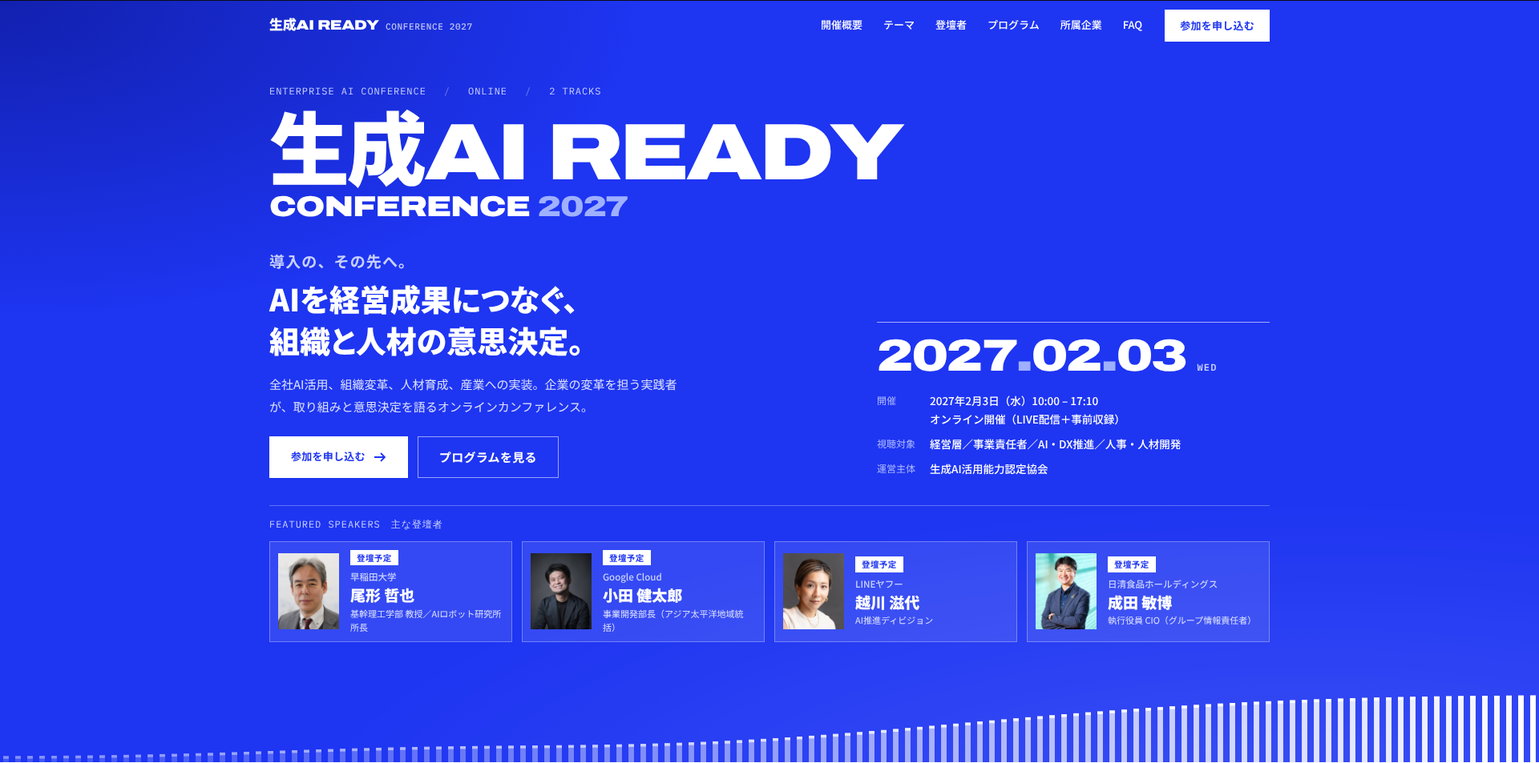
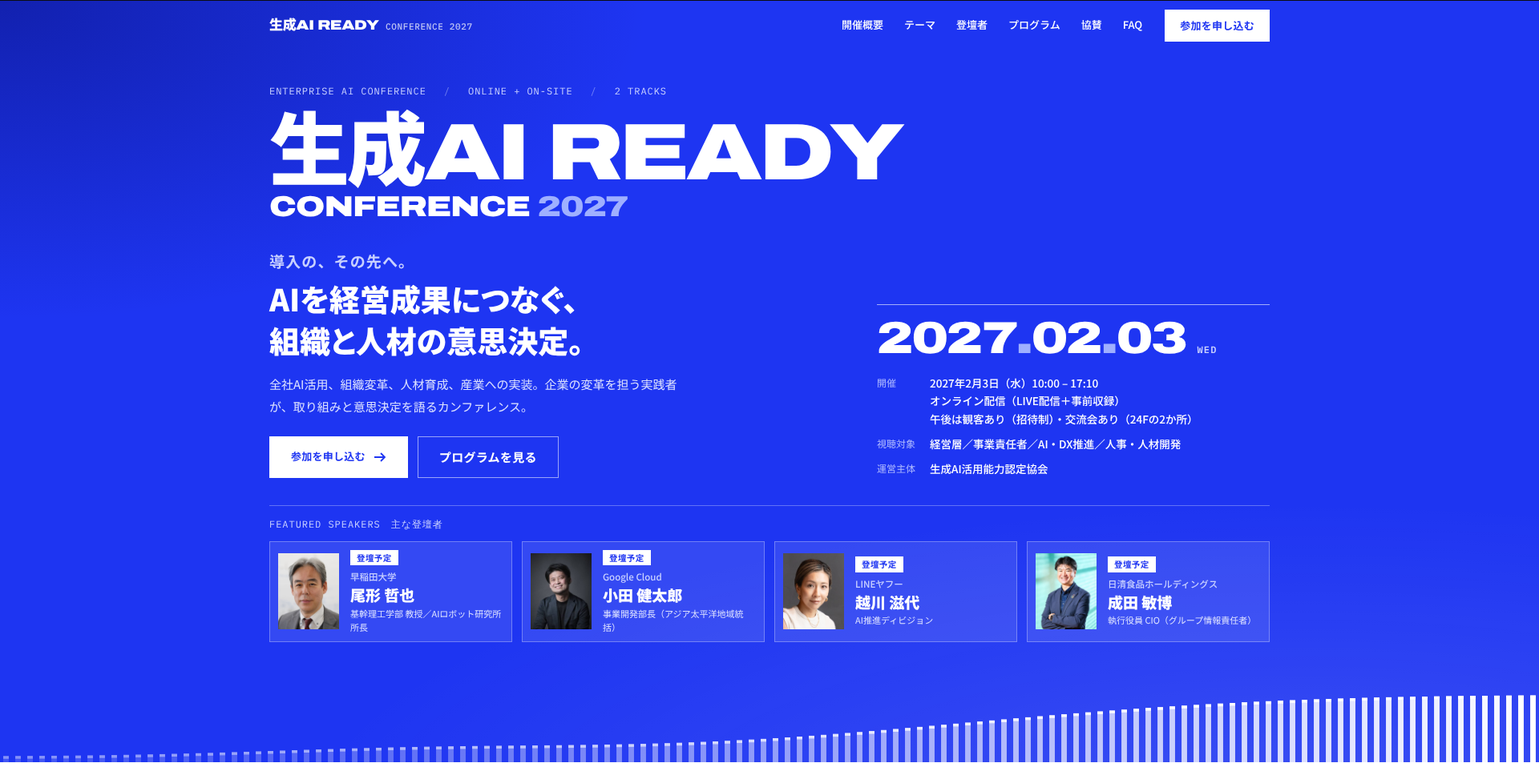
Add invited audience and networking event (afternoon only, 24F x2); remove expected scale and outreach rows
Claude-Session: https://claude.ai/code/session_018Zhg1cicYdCBMFJD6jvKpq

diff --git a/ai-ready-conference/dist/artifact.html b/ai-ready-conference/dist/artifact.html
@@ -1,7 +1,7 @@
 <title>生成AI Ready Conference 2027</title>
 <meta name="claude:viewport-fit-sides" content="cover">
 <meta name="robots" content="noindex,nofollow">
-<meta name="description" content="企業向け生成AIカンファレンス 生成AI Ready Conference 2027。運営主体：生成AI活用能力認定協会。2027年2月3日（水）オンライン開催。">
+<meta name="description" content="企業向け生成AIカンファレンス 生成AI Ready Conference 2027。運営主体：生成AI活用能力認定協会。2027年2月3日（水）オンライン開催（午後は招待制の会場・交流会あり）。">
 <link rel="preconnect" href="https://fonts.googleapis.com"><link rel="preconnect" href="https://fonts.gstatic.com" crossorigin><link rel="stylesheet" href="https://fonts.googleapis.com/css2?family=Archivo:wdth,wght@62..125,100..900&family=IBM+Plex+Mono:wght@400;500;600&family=Noto+Sans+JP:wght@400;500;700;900&display=swap">
 <style>
 /* Layout concept: Swiss-poster grid. Saturated cobalt hero with a rising "readiness" bar field,
@@ -512,6 +512,11 @@ h2.jp,h3.jp{font-feature-settings:"palt";text-wrap:balance;word-break:auto-phras
 @media (max-width:1100px){.card.soon.wide{grid-column:span 1}}
 @media (max-width:560px){.card.soon.wide{grid-column:1 / -1}}
 
+/* afternoon marker row (観客あり・交流会あり) */
+.brk.note{color:var(--cobalt);background:var(--cobalt-tint);padding:12px 16px;font-size:13.5px;font-weight:700;line-height:1.6;letter-spacing:.02em}
+.brk.note::before{background:var(--cobalt);opacity:1;width:22px;height:2px}
+@media (max-width:900px){.brk.note{margin:6px 0 10px}}
+
 </style>
 <div class="sample mono"><b>SAMPLE DESIGN</b>　掲載内容は予定です。申込フォームは送信されません。</div>
 
@@ -535,11 +540,11 @@ h2.jp,h3.jp{font-feature-settings:"palt";text-wrap:balance;word-break:auto-phras
   <div class="wrap hero-in">
     <div class="h-grid">
       <div class="h-main">
-        <p class="eyebrow mono"><span>Enterprise AI Conference</span><span>Online</span><span>2 Tracks</span></p>
+        <p class="eyebrow mono"><span>Enterprise AI Conference</span><span>Online + On-site</span><span>2 Tracks</span></p>
         <h1 class="h-title disp" aria-label="生成AI Ready Conference 2027">生成AI READY<small>CONFERENCE <em>2027</em></small></h1>
         <p class="h-kicker">導入の、その先へ。</p>
         <p class="h-lead">AIを経営成果につなぐ、<br>組織と人材の意思決定。</p>
-        <p class="h-sub">全社AI活用、組織変革、人材育成、産業への実装。企業の変革を担う実践者が、取り組みと意思決定を語るオンラインカンファレンス。</p>
+        <p class="h-sub">全社AI活用、組織変革、人材育成、産業への実装。企業の変革を担う実践者が、取り組みと意思決定を語るカンファレンス。</p>
         <div class="h-cta">
           <a class="btn w" href="#register">参加を申し込む <svg viewBox="0 0 16 16" fill="none" stroke="currentColor" stroke-width="1.8"><path d="M1 8h13M9 3l5 5-5 5"/></svg></a>
           <a class="btn o" href="#program">プログラムを見る</a>
@@ -548,7 +553,7 @@ h2.jp,h3.jp{font-feature-settings:"palt";text-wrap:balance;word-break:auto-phras
       <aside class="h-info" aria-label="開催情報">
         <div class="d">2027<span>.</span>02<span>.</span>03<small class="mono">WED</small></div>
         <dl>
-          <dt>開催</dt><dd>2027年2月3日（水）10:00 – 17:10<br>オンライン開催（LIVE配信＋事前収録）</dd>
+          <dt>開催</dt><dd>2027年2月3日（水）10:00 – 17:10<br>オンライン配信（LIVE配信＋事前収録）<br>午後は観客あり（招待制）・交流会あり（24Fの2か所）</dd>
           <dt>視聴対象</dt><dd>経営層／事業責任者／AI・DX推進／人事・人材開発</dd>
           <dt>運営主体</dt><dd>生成AI活用能力認定協会</dd>
         </dl>
@@ -568,13 +573,13 @@ h2.jp,h3.jp{font-feature-settings:"palt";text-wrap:balance;word-break:auto-phras
     <div class="about-body"><span></span>
       <div>
         <p class="statement">生成AIは、導入の段階を越えました。成果を分けるのは、経営がどう投資を判断し、全社へどう広げ、<em>人と組織をどう変えるか</em>です。</p>
-        <p class="about-p">生成AI Ready Conference 2027は、企業の変革を担う実践者が、取り組みと意思決定を語るオンラインカンファレンスです。大企業の全社展開・組織変革から、成長企業の現場導入まで、規模の異なる組織の判断をトラック別に取り上げます。</p>
+        <p class="about-p">生成AI Ready Conference 2027は、企業の変革を担う実践者が、取り組みと意思決定を語るカンファレンスです。大企業の全社展開・組織変革から、成長企業の現場導入まで、規模の異なる組織の判断をトラック別に取り上げます。</p>
         <dl class="ov">
           <div><dt>日程・時間</dt><dd>2027年2月3日（水）10:00 – 17:10</dd></div>
-          <div><dt>形式</dt><dd>オンライン開催（LIVE配信＋事前収録）。アーカイブ視聴は予定</dd></div>
+          <div><dt>形式</dt><dd>オンライン配信（LIVE配信＋事前収録）。アーカイブ視聴は予定</dd></div>
+          <div><dt>会場・観客</dt><dd>観客あり（招待制）。午後のみ、24Fの2か所で実施<small>午前はオンライン配信のみです。ご招待の対象・方法は、決まり次第ご案内します。</small></dd></div>
+          <div><dt>交流会</dt><dd>交流会あり。午後のみ、24Fの2か所で実施<small>時間・参加対象は、決まり次第ご案内します。</small></dd></div>
           <div><dt>主な視聴対象</dt><dd>経営層、事業責任者、AI・DX推進、人事・人材開発の責任者・担当者</dd></div>
-          <div><dt>想定参加規模</dt><dd>申込1,000件を目標に集客を計画しています。<small>計画上の目標値です。申込・視聴の実績や、人数を保証するものではありません。</small></dd></div>
-          <div><dt>集客方法</dt><dd>検索・SNS広告、登壇企業・登壇者からの告知、関連事業の既存接点へのご案内、広報・SNS、申込者へのメール案内。<small>登壇企業ごとの告知協力は個別にご相談します。</small></dd></div>
           <div><dt>運営主体</dt><dd>生成AI活用能力認定協会<small>正式な名称（法人格を含む）は確認中です。確定次第、更新します。</small></dd></div>
         </dl>
       </div>
@@ -696,6 +701,7 @@ h2.jp,h3.jp{font-feature-settings:"palt";text-wrap:balance;word-break:auto-phras
       <details class="q"><summary>視聴方法を教えてください。</summary><p>オンライン配信です。お申し込みいただいた方に、視聴用のURLをメールでご案内します。事前収録の講演とLIVE配信を組み合わせて実施します。</p></details>
       <details class="q"><summary>「登壇予定」とは何ですか？</summary><p>登壇を予定している方・セッションです。登壇者、テーマ、時間枠は、今後変更になる場合があります。</p></details>
       <details class="q"><summary>運営主体はどこですか？</summary><p>運営主体は、生成AI活用能力認定協会です。正式な名称（法人格を含む）は確認中で、確定次第、掲載します。</p></details>
+      <details class="q"><summary>会場で参加できますか？</summary><p>午後のみ、観客あり（招待制）で実施します。会場は24Fの2か所です。交流会も、午後のみ同じく24Fの2か所で実施します。ご招待の対象・方法は、決まり次第ご案内します。午前はオンライン配信のみです。</p></details>
       <details class="q"><summary>当日、都合が合わない時間帯があります。</summary><p>アーカイブ視聴を予定しています。詳細は申込者向けのご案内でお知らせします。</p></details>
       <details class="q"><summary>トラックは途中で切り替えられますか？</summary><p>午後のEnterpriseとGrowthは同時刻に並行して配信します。セッションごとに自由にお選びいただけます。</p></details>
     </div>
@@ -710,7 +716,7 @@ h2.jp,h3.jp{font-feature-settings:"palt";text-wrap:balance;word-break:auto-phras
       <p class="reg-copy">参加のお申し込みはこちらから。お申し込みいただいた方に、視聴URLと当日のご案内をお送りします。</p>
       <ul class="reg-list">
         <li><span class="mono">Date</span>2027年2月3日（水）10:00 – 17:10</li>
-        <li><span class="mono">Format</span>オンライン配信</li>
+        <li><span class="mono">Format</span>オンライン配信（午後は会場の観客あり・招待制）</li>
         <li><span class="mono">Fee</span>参加費・お申し込み条件は確定後に掲載</li>
       </ul>
     </div>
@@ -744,7 +750,7 @@ h2.jp,h3.jp{font-feature-settings:"palt";text-wrap:balance;word-break:auto-phras
   <div class="wrap">
     <div class="ft-top">
       <div class="disp">生成AI<br>READY<br>CONFERENCE<br>2027</div>
-      <div class="ft-info"><b>運営主体　生成AI活用能力認定協会</b>2027年2月3日（水）オンライン開催</div>
+      <div class="ft-info"><b>運営主体　生成AI活用能力認定協会</b>2027年2月3日（水）オンライン開催（午後は会場あり・招待制）</div>
     </div>
     <div class="ft-bot mono"><span>© 2027 生成AI活用能力認定協会</span><span>Privacy Policy　/　Sample design</span></div>
   </div>
@@ -800,6 +806,8 @@ window.PROGRAM = [
   { t:'11:00', e:'11:40', id:'k2', tag:'KEYNOTE 2', title:'AIを事業変革につなぐ、実装と発注の判断', who:['kamoi'] },
   { t:'11:40', e:'12:00', type:'break', title:'午前のまとめ' },
   { t:'12:00', e:'13:00', type:'break', title:'Lunch Break' },
+  /* 午後のみ: 観客あり（招待制）・交流会あり。24Fの2か所で実施 */
+  { t:'午後', e:'', type:'note', title:'ここから午後　観客あり（招待制）・交流会あり／24Fの2か所で実施' },
   { t:'13:00', e:'13:40', id:'common', tag:'COMMON SESSION', title:'AIを選ぶ・任せるための判断軸', who:['oda'] },
   { t:'13:40', e:'13:50', type:'break', title:'トラック切替' },
   { t:'13:50', e:'14:30', type:'tracks',
@@ -931,6 +939,9 @@ function isPending(k){ return k==='special'||k.indexOf('tbd:')===0; }
   }
   var h='';
   PG.forEach(function(p){
+    if(p.type==='note'){
+      h+='<div class="row"><div class="tm b">'+p.t+'</div><div class="brk note">'+p.title+'</div></div>';return;
+    }
     if(p.type==='break'){
       h+='<div class="row"><div class="tm b">'+p.t+'</div><div class="brk mono">'+p.title+'　'+p.t+'–'+p.e+'</div></div>';return;
     }

diff --git a/ai-ready-conference/dist/index.html b/ai-ready-conference/dist/index.html
@@ -6,7 +6,7 @@
 <title>生成AI Ready Conference 2027</title>
 <meta name="claude:viewport-fit-sides" content="cover">
 <meta name="robots" content="noindex,nofollow">
-<meta name="description" content="企業向け生成AIカンファレンス 生成AI Ready Conference 2027。運営主体：生成AI活用能力認定協会。2027年2月3日（水）オンライン開催。">
+<meta name="description" content="企業向け生成AIカンファレンス 生成AI Ready Conference 2027。運営主体：生成AI活用能力認定協会。2027年2月3日（水）オンライン開催（午後は招待制の会場・交流会あり）。">
 <link rel="preconnect" href="https://fonts.googleapis.com"><link rel="preconnect" href="https://fonts.gstatic.com" crossorigin><link rel="stylesheet" href="https://fonts.googleapis.com/css2?family=Archivo:wdth,wght@62..125,100..900&family=IBM+Plex+Mono:wght@400;500;600&family=Noto+Sans+JP:wght@400;500;700;900&display=swap">
 <style>
 /* Layout concept: Swiss-poster grid. Saturated cobalt hero with a rising "readiness" bar field,
@@ -517,6 +517,11 @@ h2.jp,h3.jp{font-feature-settings:"palt";text-wrap:balance;word-break:auto-phras
 @media (max-width:1100px){.card.soon.wide{grid-column:span 1}}
 @media (max-width:560px){.card.soon.wide{grid-column:1 / -1}}
 
+/* afternoon marker row (観客あり・交流会あり) */
+.brk.note{color:var(--cobalt);background:var(--cobalt-tint);padding:12px 16px;font-size:13.5px;font-weight:700;line-height:1.6;letter-spacing:.02em}
+.brk.note::before{background:var(--cobalt);opacity:1;width:22px;height:2px}
+@media (max-width:900px){.brk.note{margin:6px 0 10px}}
+
 </style>
 </head>
 <body>
@@ -542,11 +547,11 @@ h2.jp,h3.jp{font-feature-settings:"palt";text-wrap:balance;word-break:auto-phras
   <div class="wrap hero-in">
     <div class="h-grid">
       <div class="h-main">
-        <p class="eyebrow mono"><span>Enterprise AI Conference</span><span>Online</span><span>2 Tracks</span></p>
+        <p class="eyebrow mono"><span>Enterprise AI Conference</span><span>Online + On-site</span><span>2 Tracks</span></p>
         <h1 class="h-title disp" aria-label="生成AI Ready Conference 2027">生成AI READY<small>CONFERENCE <em>2027</em></small></h1>
         <p class="h-kicker">導入の、その先へ。</p>
         <p class="h-lead">AIを経営成果につなぐ、<br>組織と人材の意思決定。</p>
-        <p class="h-sub">全社AI活用、組織変革、人材育成、産業への実装。企業の変革を担う実践者が、取り組みと意思決定を語るオンラインカンファレンス。</p>
+        <p class="h-sub">全社AI活用、組織変革、人材育成、産業への実装。企業の変革を担う実践者が、取り組みと意思決定を語るカンファレンス。</p>
         <div class="h-cta">
           <a class="btn w" href="#register">参加を申し込む <svg viewBox="0 0 16 16" fill="none" stroke="currentColor" stroke-width="1.8"><path d="M1 8h13M9 3l5 5-5 5"/></svg></a>
           <a class="btn o" href="#program">プログラムを見る</a>
@@ -555,7 +560,7 @@ h2.jp,h3.jp{font-feature-settings:"palt";text-wrap:balance;word-break:auto-phras
       <aside class="h-info" aria-label="開催情報">
         <div class="d">2027<span>.</span>02<span>.</span>03<small class="mono">WED</small></div>
         <dl>
-          <dt>開催</dt><dd>2027年2月3日（水）10:00 – 17:10<br>オンライン開催（LIVE配信＋事前収録）</dd>
+          <dt>開催</dt><dd>2027年2月3日（水）10:00 – 17:10<br>オンライン配信（LIVE配信＋事前収録）<br>午後は観客あり（招待制）・交流会あり（24Fの2か所）</dd>
           <dt>視聴対象</dt><dd>経営層／事業責任者／AI・DX推進／人事・人材開発</dd>
           <dt>運営主体</dt><dd>生成AI活用能力認定協会</dd>
         </dl>
@@ -575,13 +580,13 @@ h2.jp,h3.jp{font-feature-settings:"palt";text-wrap:balance;word-break:auto-phras
     <div class="about-body"><span></span>
       <div>
         <p class="statement">生成AIは、導入の段階を越えました。成果を分けるのは、経営がどう投資を判断し、全社へどう広げ、<em>人と組織をどう変えるか</em>です。</p>
-        <p class="about-p">生成AI Ready Conference 2027は、企業の変革を担う実践者が、取り組みと意思決定を語るオンラインカンファレンスです。大企業の全社展開・組織変革から、成長企業の現場導入まで、規模の異なる組織の判断をトラック別に取り上げます。</p>
+        <p class="about-p">生成AI Ready Conference 2027は、企業の変革を担う実践者が、取り組みと意思決定を語るカンファレンスです。大企業の全社展開・組織変革から、成長企業の現場導入まで、規模の異なる組織の判断をトラック別に取り上げます。</p>
         <dl class="ov">
           <div><dt>日程・時間</dt><dd>2027年2月3日（水）10:00 – 17:10</dd></div>
-          <div><dt>形式</dt><dd>オンライン開催（LIVE配信＋事前収録）。アーカイブ視聴は予定</dd></div>
+          <div><dt>形式</dt><dd>オンライン配信（LIVE配信＋事前収録）。アーカイブ視聴は予定</dd></div>
+          <div><dt>会場・観客</dt><dd>観客あり（招待制）。午後のみ、24Fの2か所で実施<small>午前はオンライン配信のみです。ご招待の対象・方法は、決まり次第ご案内します。</small></dd></div>
+          <div><dt>交流会</dt><dd>交流会あり。午後のみ、24Fの2か所で実施<small>時間・参加対象は、決まり次第ご案内します。</small></dd></div>
           <div><dt>主な視聴対象</dt><dd>経営層、事業責任者、AI・DX推進、人事・人材開発の責任者・担当者</dd></div>
-          <div><dt>想定参加規模</dt><dd>申込1,000件を目標に集客を計画しています。<small>計画上の目標値です。申込・視聴の実績や、人数を保証するものではありません。</small></dd></div>
-          <div><dt>集客方法</dt><dd>検索・SNS広告、登壇企業・登壇者からの告知、関連事業の既存接点へのご案内、広報・SNS、申込者へのメール案内。<small>登壇企業ごとの告知協力は個別にご相談します。</small></dd></div>
           <div><dt>運営主体</dt><dd>生成AI活用能力認定協会<small>正式な名称（法人格を含む）は確認中です。確定次第、更新します。</small></dd></div>
         </dl>
       </div>
@@ -703,6 +708,7 @@ h2.jp,h3.jp{font-feature-settings:"palt";text-wrap:balance;word-break:auto-phras
       <details class="q"><summary>視聴方法を教えてください。</summary><p>オンライン配信です。お申し込みいただいた方に、視聴用のURLをメールでご案内します。事前収録の講演とLIVE配信を組み合わせて実施します。</p></details>
       <details class="q"><summary>「登壇予定」とは何ですか？</summary><p>登壇を予定している方・セッションです。登壇者、テーマ、時間枠は、今後変更になる場合があります。</p></details>
       <details class="q"><summary>運営主体はどこですか？</summary><p>運営主体は、生成AI活用能力認定協会です。正式な名称（法人格を含む）は確認中で、確定次第、掲載します。</p></details>
+      <details class="q"><summary>会場で参加できますか？</summary><p>午後のみ、観客あり（招待制）で実施します。会場は24Fの2か所です。交流会も、午後のみ同じく24Fの2か所で実施します。ご招待の対象・方法は、決まり次第ご案内します。午前はオンライン配信のみです。</p></details>
       <details class="q"><summary>当日、都合が合わない時間帯があります。</summary><p>アーカイブ視聴を予定しています。詳細は申込者向けのご案内でお知らせします。</p></details>
       <details class="q"><summary>トラックは途中で切り替えられますか？</summary><p>午後のEnterpriseとGrowthは同時刻に並行して配信します。セッションごとに自由にお選びいただけます。</p></details>
     </div>
@@ -717,7 +723,7 @@ h2.jp,h3.jp{font-feature-settings:"palt";text-wrap:balance;word-break:auto-phras
       <p class="reg-copy">参加のお申し込みはこちらから。お申し込みいただいた方に、視聴URLと当日のご案内をお送りします。</p>
       <ul class="reg-list">
         <li><span class="mono">Date</span>2027年2月3日（水）10:00 – 17:10</li>
-        <li><span class="mono">Format</span>オンライン配信</li>
+        <li><span class="mono">Format</span>オンライン配信（午後は会場の観客あり・招待制）</li>
         <li><span class="mono">Fee</span>参加費・お申し込み条件は確定後に掲載</li>
       </ul>
     </div>
@@ -751,7 +757,7 @@ h2.jp,h3.jp{font-feature-settings:"palt";text-wrap:balance;word-break:auto-phras
   <div class="wrap">
     <div class="ft-top">
       <div class="disp">生成AI<br>READY<br>CONFERENCE<br>2027</div>
-      <div class="ft-info"><b>運営主体　生成AI活用能力認定協会</b>2027年2月3日（水）オンライン開催</div>
+      <div class="ft-info"><b>運営主体　生成AI活用能力認定協会</b>2027年2月3日（水）オンライン開催（午後は会場あり・招待制）</div>
     </div>
     <div class="ft-bot mono"><span>© 2027 生成AI活用能力認定協会</span><span>Privacy Policy　/　Sample design</span></div>
   </div>
@@ -807,6 +813,8 @@ window.PROGRAM = [
   { t:'11:00', e:'11:40', id:'k2', tag:'KEYNOTE 2', title:'AIを事業変革につなぐ、実装と発注の判断', who:['kamoi'] },
   { t:'11:40', e:'12:00', type:'break', title:'午前のまとめ' },
   { t:'12:00', e:'13:00', type:'break', title:'Lunch Break' },
+  /* 午後のみ: 観客あり（招待制）・交流会あり。24Fの2か所で実施 */
+  { t:'午後', e:'', type:'note', title:'ここから午後　観客あり（招待制）・交流会あり／24Fの2か所で実施' },
   { t:'13:00', e:'13:40', id:'common', tag:'COMMON SESSION', title:'AIを選ぶ・任せるための判断軸', who:['oda'] },
   { t:'13:40', e:'13:50', type:'break', title:'トラック切替' },
   { t:'13:50', e:'14:30', type:'tracks',
@@ -938,6 +946,9 @@ function isPending(k){ return k==='special'||k.indexOf('tbd:')===0; }
   }
   var h='';
   PG.forEach(function(p){
+    if(p.type==='note'){
+      h+='<div class="row"><div class="tm b">'+p.t+'</div><div class="brk note">'+p.title+'</div></div>';return;
+    }
     if(p.type==='break'){
       h+='<div class="row"><div class="tm b">'+p.t+'</div><div class="brk mono">'+p.title+'　'+p.t+'–'+p.e+'</div></div>';return;
     }

diff --git a/ai-ready-conference/src/body.html b/ai-ready-conference/src/body.html
@@ -20,11 +20,11 @@
   <div class="wrap hero-in">
     <div class="h-grid">
       <div class="h-main">
-        <p class="eyebrow mono"><span>Enterprise AI Conference</span><span>Online</span><span>2 Tracks</span></p>
+        <p class="eyebrow mono"><span>Enterprise AI Conference</span><span>Online + On-site</span><span>2 Tracks</span></p>
         <h1 class="h-title disp" aria-label="生成AI Ready Conference 2027">生成AI READY<small>CONFERENCE <em>2027</em></small></h1>
         <p class="h-kicker">導入の、その先へ。</p>
         <p class="h-lead">AIを経営成果につなぐ、<br>組織と人材の意思決定。</p>
-        <p class="h-sub">全社AI活用、組織変革、人材育成、産業への実装。企業の変革を担う実践者が、取り組みと意思決定を語るオンラインカンファレンス。</p>
+        <p class="h-sub">全社AI活用、組織変革、人材育成、産業への実装。企業の変革を担う実践者が、取り組みと意思決定を語るカンファレンス。</p>
         <div class="h-cta">
           <a class="btn w" href="#register">参加を申し込む <svg viewBox="0 0 16 16" fill="none" stroke="currentColor" stroke-width="1.8"><path d="M1 8h13M9 3l5 5-5 5"/></svg></a>
           <a class="btn o" href="#program">プログラムを見る</a>
@@ -33,7 +33,7 @@
       <aside class="h-info" aria-label="開催情報">
         <div class="d">2027<span>.</span>02<span>.</span>03<small class="mono">WED</small></div>
         <dl>
-          <dt>開催</dt><dd>2027年2月3日（水）10:00 – 17:10<br>オンライン開催（LIVE配信＋事前収録）</dd>
+          <dt>開催</dt><dd>2027年2月3日（水）10:00 – 17:10<br>オンライン配信（LIVE配信＋事前収録）<br>午後は観客あり（招待制）・交流会あり（24Fの2か所）</dd>
           <dt>視聴対象</dt><dd>経営層／事業責任者／AI・DX推進／人事・人材開発</dd>
           <dt>運営主体</dt><dd>生成AI活用能力認定協会</dd>
         </dl>
@@ -53,13 +53,13 @@
     <div class="about-body"><span></span>
       <div>
         <p class="statement">生成AIは、導入の段階を越えました。成果を分けるのは、経営がどう投資を判断し、全社へどう広げ、<em>人と組織をどう変えるか</em>です。</p>
-        <p class="about-p">生成AI Ready Conference 2027は、企業の変革を担う実践者が、取り組みと意思決定を語るオンラインカンファレンスです。大企業の全社展開・組織変革から、成長企業の現場導入まで、規模の異なる組織の判断をトラック別に取り上げます。</p>
+        <p class="about-p">生成AI Ready Conference 2027は、企業の変革を担う実践者が、取り組みと意思決定を語るカンファレンスです。大企業の全社展開・組織変革から、成長企業の現場導入まで、規模の異なる組織の判断をトラック別に取り上げます。</p>
         <dl class="ov">
           <div><dt>日程・時間</dt><dd>2027年2月3日（水）10:00 – 17:10</dd></div>
-          <div><dt>形式</dt><dd>オンライン開催（LIVE配信＋事前収録）。アーカイブ視聴は予定</dd></div>
+          <div><dt>形式</dt><dd>オンライン配信（LIVE配信＋事前収録）。アーカイブ視聴は予定</dd></div>
+          <div><dt>会場・観客</dt><dd>観客あり（招待制）。午後のみ、24Fの2か所で実施<small>午前はオンライン配信のみです。ご招待の対象・方法は、決まり次第ご案内します。</small></dd></div>
+          <div><dt>交流会</dt><dd>交流会あり。午後のみ、24Fの2か所で実施<small>時間・参加対象は、決まり次第ご案内します。</small></dd></div>
           <div><dt>主な視聴対象</dt><dd>経営層、事業責任者、AI・DX推進、人事・人材開発の責任者・担当者</dd></div>
-          <div><dt>想定参加規模</dt><dd>申込1,000件を目標に集客を計画しています。<small>計画上の目標値です。申込・視聴の実績や、人数を保証するものではありません。</small></dd></div>
-          <div><dt>集客方法</dt><dd>検索・SNS広告、登壇企業・登壇者からの告知、関連事業の既存接点へのご案内、広報・SNS、申込者へのメール案内。<small>登壇企業ごとの告知協力は個別にご相談します。</small></dd></div>
           <div><dt>運営主体</dt><dd>生成AI活用能力認定協会<small>正式な名称（法人格を含む）は確認中です。確定次第、更新します。</small></dd></div>
         </dl>
       </div>
@@ -181,6 +181,7 @@
       <details class="q"><summary>視聴方法を教えてください。</summary><p>オンライン配信です。お申し込みいただいた方に、視聴用のURLをメールでご案内します。事前収録の講演とLIVE配信を組み合わせて実施します。</p></details>
       <details class="q"><summary>「登壇予定」とは何ですか？</summary><p>登壇を予定している方・セッションです。登壇者、テーマ、時間枠は、今後変更になる場合があります。</p></details>
       <details class="q"><summary>運営主体はどこですか？</summary><p>運営主体は、生成AI活用能力認定協会です。正式な名称（法人格を含む）は確認中で、確定次第、掲載します。</p></details>
+      <details class="q"><summary>会場で参加できますか？</summary><p>午後のみ、観客あり（招待制）で実施します。会場は24Fの2か所です。交流会も、午後のみ同じく24Fの2か所で実施します。ご招待の対象・方法は、決まり次第ご案内します。午前はオンライン配信のみです。</p></details>
       <details class="q"><summary>当日、都合が合わない時間帯があります。</summary><p>アーカイブ視聴を予定しています。詳細は申込者向けのご案内でお知らせします。</p></details>
       <details class="q"><summary>トラックは途中で切り替えられますか？</summary><p>午後のEnterpriseとGrowthは同時刻に並行して配信します。セッションごとに自由にお選びいただけます。</p></details>
     </div>
@@ -195,7 +196,7 @@
       <p class="reg-copy">参加のお申し込みはこちらから。お申し込みいただいた方に、視聴URLと当日のご案内をお送りします。</p>
       <ul class="reg-list">
         <li><span class="mono">Date</span>2027年2月3日（水）10:00 – 17:10</li>
-        <li><span class="mono">Format</span>オンライン配信</li>
+        <li><span class="mono">Format</span>オンライン配信（午後は会場の観客あり・招待制）</li>
         <li><span class="mono">Fee</span>参加費・お申し込み条件は確定後に掲載</li>
       </ul>
     </div>
@@ -229,7 +230,7 @@
   <div class="wrap">
     <div class="ft-top">
       <div class="disp">生成AI<br>READY<br>CONFERENCE<br>2027</div>
-      <div class="ft-info"><b>運営主体　生成AI活用能力認定協会</b>2027年2月3日（水）オンライン開催</div>
+      <div class="ft-info"><b>運営主体　生成AI活用能力認定協会</b>2027年2月3日（水）オンライン開催（午後は会場あり・招待制）</div>
     </div>
     <div class="ft-bot mono"><span>© 2027 生成AI活用能力認定協会</span><span>Privacy Policy　/　Sample design</span></div>
   </div>

diff --git a/ai-ready-conference/private/sumitomo.html b/ai-ready-conference/private/sumitomo.html
@@ -515,6 +515,11 @@ h2.jp,h3.jp{font-feature-settings:"palt";text-wrap:balance;word-break:auto-phras
 @media (max-width:1100px){.card.soon.wide{grid-column:span 1}}
 @media (max-width:560px){.card.soon.wide{grid-column:1 / -1}}
 
+/* afternoon marker row (観客あり・交流会あり) */
+.brk.note{color:var(--cobalt);background:var(--cobalt-tint);padding:12px 16px;font-size:13.5px;font-weight:700;line-height:1.6;letter-spacing:.02em}
+.brk.note::before{background:var(--cobalt);opacity:1;width:22px;height:2px}
+@media (max-width:900px){.brk.note{margin:6px 0 10px}}
+
 /* 商談用ページ（住友商事様向け）。一般公開サイトのナビ・ビルド成果物には含めない */
 .pv-hero{background:var(--cobalt);color:#fff;padding:clamp(40px,6vw,88px) 0 clamp(36px,5vw,72px);position:relative;overflow:hidden}
 .pv-hero::after{content:"";position:absolute;inset:0;background:radial-gradient(90% 90% at 100% 0%,rgba(255,255,255,.14),transparent 60%);pointer-events:none}
@@ -577,7 +582,7 @@ h2.jp,h3.jp{font-feature-settings:"palt";text-wrap:balance;word-break:auto-phras
   <div class="wrap">
     <p class="mono pv-top"><span>生成AI Ready Conference 2027</span><span>ご相談資料</span><span class="pv-tag">商談用・非公開</span></p>
     <h1 class="pv-h1 jp">住友商事様への<br>ご登壇のご相談</h1>
-    <p class="pv-lead">2027年2月3日（水）にオンラインで開催するカンファレンスについて、ご登壇をご検討いただくための資料です。</p>
+    <p class="pv-lead">2027年2月3日（水）にオンライン配信を中心に開催するカンファレンスについて、ご登壇をご検討いただくための資料です。</p>
     <p class="pv-note"><b>ご相談案（未合意）</b>　本資料のテーマ・形式は、いずれも未合意のご相談案です。確定事項ではありません。</p>
   </div>
 </header>
@@ -589,10 +594,10 @@ h2.jp,h3.jp{font-feature-settings:"palt";text-wrap:balance;word-break:auto-phras
       <div class="pv-r">
         <p class="pv-big">導入の、その先へ。<br>AIを経営成果につなぐ、組織と人材の意思決定。</p>
         <dl class="ov">
-          <div><dt>日程・形式</dt><dd>2027年2月3日（水）10:00 – 17:10／オンライン開催（LIVE配信＋事前収録）</dd></div>
+          <div><dt>日程・形式</dt><dd>2027年2月3日（水）10:00 – 17:10／オンライン配信（LIVE配信＋事前収録）</dd></div>
+          <div><dt>会場・交流会</dt><dd>午後のみ、観客あり（招待制）・交流会あり／24Fの2か所で実施<small>午前はオンライン配信のみです。</small></dd></div>
           <div><dt>主な視聴対象</dt><dd>経営層、事業責任者、AI・DX推進、人事・人材開発の責任者・担当者</dd></div>
           <div><dt>構成</dt><dd>午前の共通セッション、午後のEnterprise（大企業向け）／Growth（成長企業向け）の2トラック、共通クロージング</dd></div>
-          <div><dt>想定参加規模</dt><dd>申込1,000件を目標に集客を計画しています。<small>計画上の目標値です。実績や人数を保証するものではありません。</small></dd></div>
           <div><dt>運営主体</dt><dd>生成AI活用能力認定協会<small>正式な名称（法人格を含む）は確認中です。</small></dd></div>
         </dl>
       </div>
@@ -721,6 +726,8 @@ window.PROGRAM = [
   { t:'11:00', e:'11:40', id:'k2', tag:'KEYNOTE 2', title:'AIを事業変革につなぐ、実装と発注の判断', who:['kamoi'] },
   { t:'11:40', e:'12:00', type:'break', title:'午前のまとめ' },
   { t:'12:00', e:'13:00', type:'break', title:'Lunch Break' },
+  /* 午後のみ: 観客あり（招待制）・交流会あり。24Fの2か所で実施 */
+  { t:'午後', e:'', type:'note', title:'ここから午後　観客あり（招待制）・交流会あり／24Fの2か所で実施' },
   { t:'13:00', e:'13:40', id:'common', tag:'COMMON SESSION', title:'AIを選ぶ・任せるための判断軸', who:['oda'] },
   { t:'13:40', e:'13:50', type:'break', title:'トラック切替' },
   { t:'13:50', e:'14:30', type:'tracks',

diff --git a/ai-ready-conference/src/sumitomo.html b/ai-ready-conference/src/sumitomo.html
@@ -2,7 +2,7 @@
   <div class="wrap">
     <p class="mono pv-top"><span>生成AI Ready Conference 2027</span><span>ご相談資料</span><span class="pv-tag">商談用・非公開</span></p>
     <h1 class="pv-h1 jp">住友商事様への<br>ご登壇のご相談</h1>
-    <p class="pv-lead">2027年2月3日（水）にオンラインで開催するカンファレンスについて、ご登壇をご検討いただくための資料です。</p>
+    <p class="pv-lead">2027年2月3日（水）にオンライン配信を中心に開催するカンファレンスについて、ご登壇をご検討いただくための資料です。</p>
     <p class="pv-note"><b>ご相談案（未合意）</b>　本資料のテーマ・形式は、いずれも未合意のご相談案です。確定事項ではありません。</p>
   </div>
 </header>
@@ -14,10 +14,10 @@
       <div class="pv-r">
         <p class="pv-big">導入の、その先へ。<br>AIを経営成果につなぐ、組織と人材の意思決定。</p>
         <dl class="ov">
-          <div><dt>日程・形式</dt><dd>2027年2月3日（水）10:00 – 17:10／オンライン開催（LIVE配信＋事前収録）</dd></div>
+          <div><dt>日程・形式</dt><dd>2027年2月3日（水）10:00 – 17:10／オンライン配信（LIVE配信＋事前収録）</dd></div>
+          <div><dt>会場・交流会</dt><dd>午後のみ、観客あり（招待制）・交流会あり／24Fの2か所で実施<small>午前はオンライン配信のみです。</small></dd></div>
           <div><dt>主な視聴対象</dt><dd>経営層、事業責任者、AI・DX推進、人事・人材開発の責任者・担当者</dd></div>
           <div><dt>構成</dt><dd>午前の共通セッション、午後のEnterprise（大企業向け）／Growth（成長企業向け）の2トラック、共通クロージング</dd></div>
-          <div><dt>想定参加規模</dt><dd>申込1,000件を目標に集客を計画しています。<small>計画上の目標値です。実績や人数を保証するものではありません。</small></dd></div>
           <div><dt>運営主体</dt><dd>生成AI活用能力認定協会<small>正式な名称（法人格を含む）は確認中です。</small></dd></div>
         </dl>
       </div>

diff --git a/ai-ready-conference/src/data.js b/ai-ready-conference/src/data.js
@@ -47,6 +47,8 @@ window.PROGRAM = [
   { t:'11:00', e:'11:40', id:'k2', tag:'KEYNOTE 2', title:'AIを事業変革につなぐ、実装と発注の判断', who:['kamoi'] },
   { t:'11:40', e:'12:00', type:'break', title:'午前のまとめ' },
   { t:'12:00', e:'13:00', type:'break', title:'Lunch Break' },
+  /* 午後のみ: 観客あり（招待制）・交流会あり。24Fの2か所で実施 */
+  { t:'午後', e:'', type:'note', title:'ここから午後　観客あり（招待制）・交流会あり／24Fの2か所で実施' },
   { t:'13:00', e:'13:40', id:'common', tag:'COMMON SESSION', title:'AIを選ぶ・任せるための判断軸', who:['oda'] },
   { t:'13:40', e:'13:50', type:'break', title:'トラック切替' },
   { t:'13:50', e:'14:30', type:'tracks',

diff --git a/ai-ready-conference/src/style.css b/ai-ready-conference/src/style.css
@@ -505,3 +505,8 @@ h2.jp,h3.jp{font-feature-settings:"palt";text-wrap:balance;word-break:auto-phras
 .card.soon.wide .disp{font-size:clamp(28px,4vw,56px)}
 @media (max-width:1100px){.card.soon.wide{grid-column:span 1}}
 @media (max-width:560px){.card.soon.wide{grid-column:1 / -1}}
+
+/* afternoon marker row (観客あり・交流会あり) */
+.brk.note{color:var(--cobalt);background:var(--cobalt-tint);padding:12px 16px;font-size:13.5px;font-weight:700;line-height:1.6;letter-spacing:.02em}
+.brk.note::before{background:var(--cobalt);opacity:1;width:22px;height:2px}
+@media (max-width:900px){.brk.note{margin:6px 0 10px}}

diff --git a/ai-ready-conference/src/app.js b/ai-ready-conference/src/app.js
@@ -109,6 +109,9 @@ function isPending(k){ return k==='special'||k.indexOf('tbd:')===0; }
   }
   var h='';
   PG.forEach(function(p){
+    if(p.type==='note'){
+      h+='<div class="row"><div class="tm b">'+p.t+'</div><div class="brk note">'+p.title+'</div></div>';return;
+    }
     if(p.type==='break'){
       h+='<div class="row"><div class="tm b">'+p.t+'</div><div class="brk mono">'+p.title+'　'+p.t+'–'+p.e+'</div></div>';return;
     }

diff --git a/ai-ready-conference/build.py b/ai-ready-conference/build.py
@@ -29,7 +29,7 @@ FONTS = ('<link rel="preconnect" href="https://fonts.googleapis.com">'
 head = (f'<title>{TITLE}</title>\n'
         '<meta name="claude:viewport-fit-sides" content="cover">\n'
         '<meta name="robots" content="noindex,nofollow">\n'
-        '<meta name="description" content="企業向け生成AIカンファレンス 生成AI Ready Conference 2027。運営主体：生成AI活用能力認定協会。2027年2月3日（水）オンライン開催。">\n'
+        '<meta name="description" content="企業向け生成AIカンファレンス 生成AI Ready Conference 2027。運営主体：生成AI活用能力認定協会。2027年2月3日（水）オンライン開催（午後は招待制の会場・交流会あり）。">\n'
         f'{FONTS}\n<style>\n{css}\n</style>\n')
 tail = f'\n<script>\n{data}\n{app}\n</script>\n'
 

diff --git a/ai-ready-conference/CONFIRMATION.md b/ai-ready-conference/CONFIRMATION.md
@@ -38,9 +38,12 @@
 - Algomaticは「DMM関連会社」と明記しています（ご指示にもとづく）。協力関係の内容は未確認のため、「協賛」「協力」とは書いていません。
 - 問い合わせ先: 情報の提供がないため、サイト・商談用ページから省略しています。
 
-## 4. 開催概要
-- 想定参加規模: 「申込1,000件」は会議での想定値（暫定）。計画上の目標値と明記し、実績・視聴保証にはしていません。
-- 集客方法: 広告・登壇企業告知・社内関連事業・広報・メールは「計画」です。広告費・媒体別配分は未承認のため掲載していません。
+## 4. 開催概要・会場
+- **会場・観客・交流会（ご指示）:** 「観客あり（招待制）」「交流会あり」を、午後のみ、「24Fの2か所」で実施する、と記載しました。開催概要・ファーストビュー・FAQ・申込欄・フッター・プログラム（13:00の前に帯を挿入）・商談用ページに反映しています。
+  - **未確認:** 建物名・会場名（「24F」がどの建物か）、「2か所」の内訳（観客席と交流会の場所か、トラックごとの会場か）、招待の対象・方法、観客の人数、交流会の時間・参加対象・形式（進行管理表の旧案は17:30〜19:00）。サイトには、確認できていない内容は書いていません。
+  - 「午後のみ」は、13:00以降（共通セッション以降）を指すものとして、プログラムの帯を13:00の前に置いています。
+  - 登壇者の会場への来場（会場登壇か、事前収録か）は、進行管理表の収録方式（LIVE／事前収録）の整理が必要です。
+- **想定参加規模・集客方法（ご指示）:** 開催概要の表と商談用ページから削除しました（「申込1,000件」の目標値を含む）。
 - 参加費・申込条件・プライバシーポリシー: 未確定（申込フォームはサンプル）。
 
 ## 5. 協賛・ロゴ
